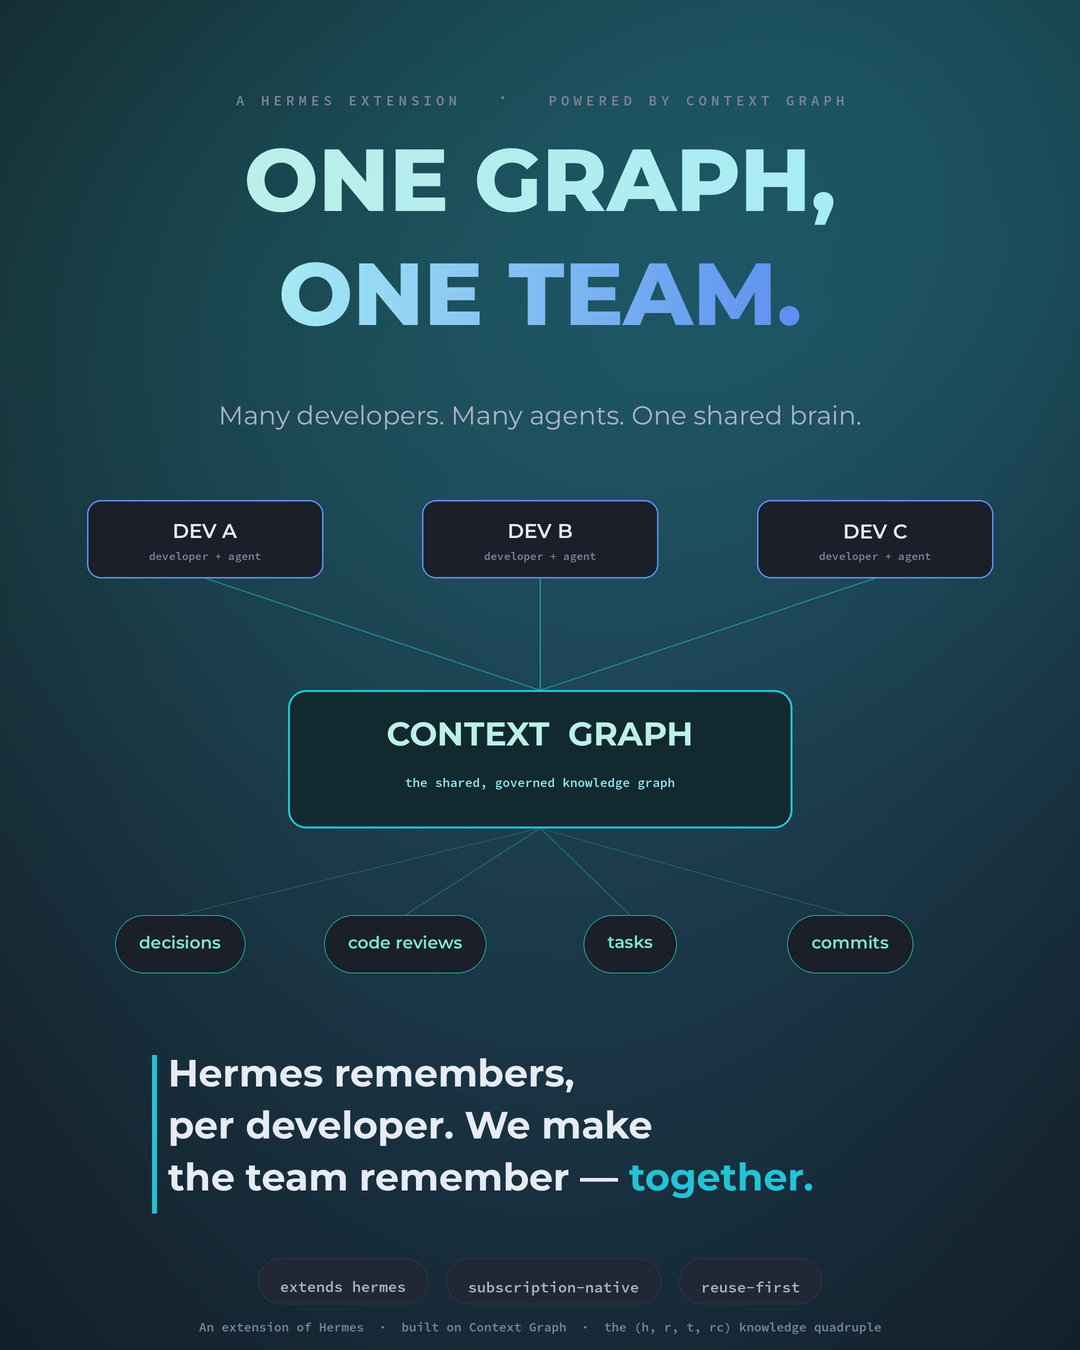
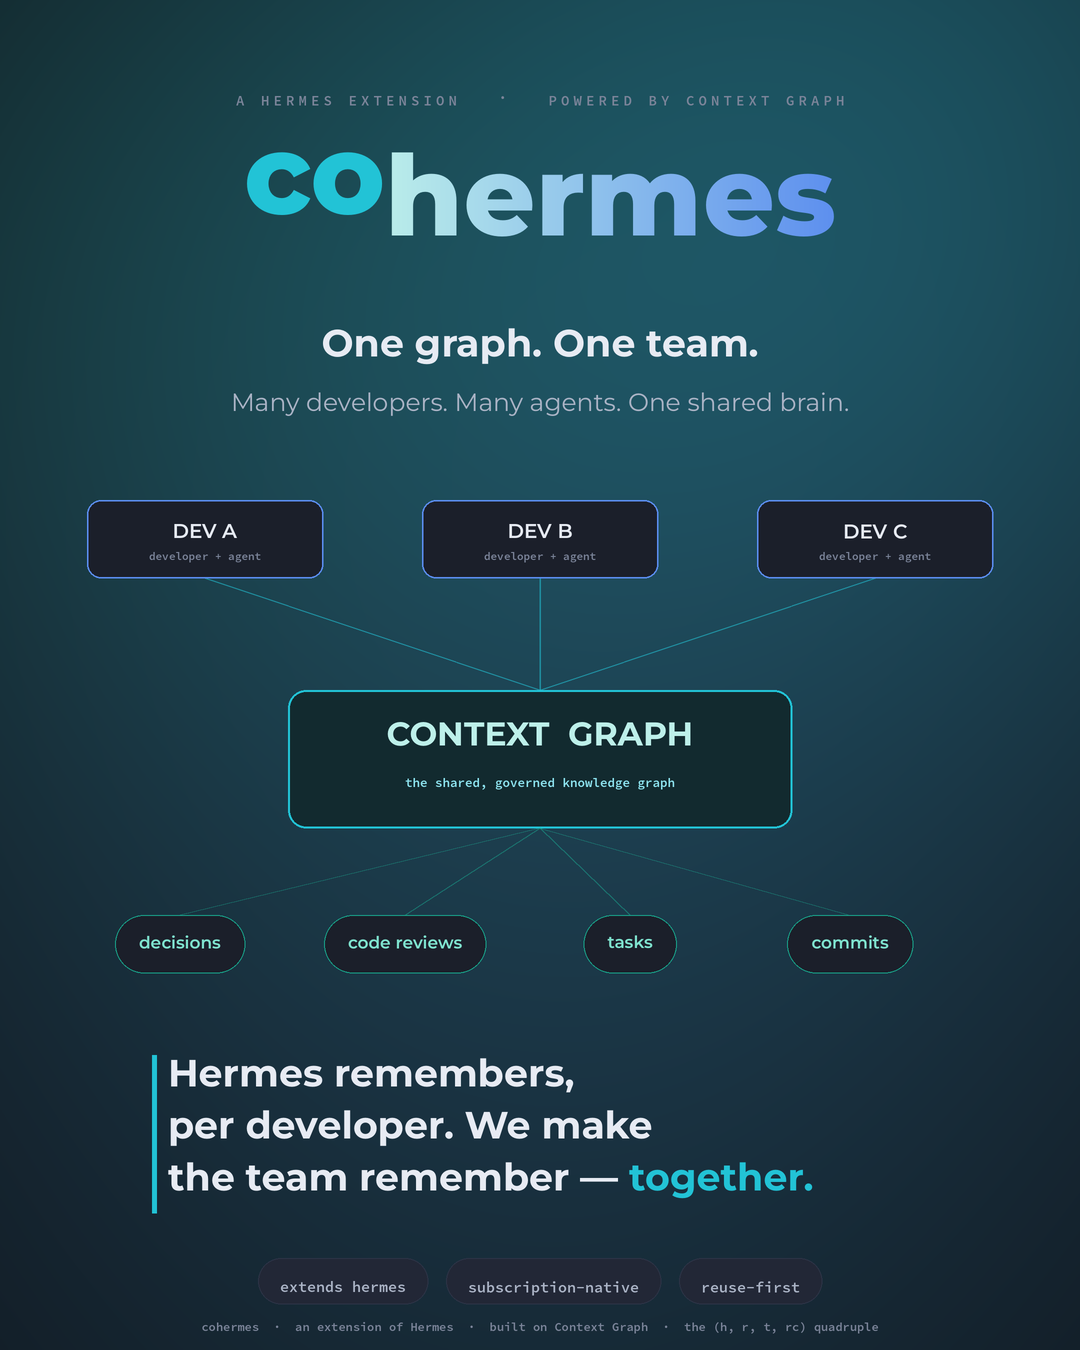
docs(agentic): rebrand poster with the cohermes wordmark
Two-tone cohermes wordmark (co=teal, hermes=cyan->blue) as the hero; 'One graph.
One team.' demoted to tagline; name threaded into the footer.

diff --git a/docs/assets/team_agent_poster.py b/docs/assets/team_agent_poster.py
@@ -101,18 +101,36 @@ def grad_text(cx, top_y, text, font, c1, c2):
         ga[:, :, i] = (c1[i] + (c2[i] - c1[i]) * tvec).astype(np.uint8)
     img.paste(Image.fromarray(ga, "RGB"), (int(cx * S - w / 2 - pad), int(top_y * S - pad)), mask)
 
+def grad_text_left(left_x, top_y, text, font, c1, c2):
+    w, h, b = measure(text, font)
+    pad = 12 * S
+    mask = Image.new("L", (w + 2 * pad, h + 2 * pad), 0)
+    ImageDraw.Draw(mask).text((pad - b[0], pad - b[1]), text, font=font, fill=255)
+    ga = np.zeros((h + 2 * pad, w + 2 * pad, 3), dtype=np.uint8)
+    tvec = np.linspace(0, 1, w + 2 * pad)
+    for i in range(3):
+        ga[:, :, i] = (c1[i] + (c2[i] - c1[i]) * tvec).astype(np.uint8)
+    img.paste(Image.fromarray(ga, "RGB"), (int(left_x * S - pad), int(top_y * S - pad)), mask)
+
 
 CX = 540
 
 # eyebrow
 spaced(CX, 96, "A HERMES EXTENSION   ·   POWERED BY CONTEXT GRAPH", mono(14), INK_FAINT, 4)
 
-# title
-grad_text(CX, 148, "ONE GRAPH,", mont("xbold", 88), CYAN_HI, CYAN_HI2)
-grad_text(CX, 262, "ONE TEAM.", mont("xbold", 88), CYAN_HI2, BLUE)
+# wordmark — cohermes ("co" teal, "hermes" cyan→blue gradient)
+wf = mont("xbold", 112)
+w_co = measure("co", wf)[0] / S
+w_he = measure("hermes", wf)[0] / S
+x0 = CX - (w_co + w_he) / 2
+ltext(x0, 152, "co", wf, TEAL)
+grad_text_left(x0 + w_co, 152, "hermes", wf, CYAN_HI, BLUE)
+
+# tagline
+ctext(CX, 328, "One graph. One team.", mont("bold", 38), INK)
 
 # subtitle
-ctext(CX, 405, "Many developers. Many agents. One shared brain.", mont("reg", 26), INK_SOFT)
+ctext(CX, 392, "Many developers. Many agents. One shared brain.", mont("reg", 25), INK_SOFT)
 
 # ---- visual: agents -> hub -> artifacts ----
 chip_y0, chip_y1 = 500, 578
@@ -162,8 +180,8 @@ for p, w in zip(pills, ws):
     x += w + gap
 
 # ---- footer ----
-ctext(CX, 1322, "An extension of Hermes  ·  built on Context Graph  ·  the (h, r, t, rc) knowledge quadruple",
-      mono(12.5), INK_FAINT)
+ctext(CX, 1322, "cohermes  ·  an extension of Hermes  ·  built on Context Graph  ·  the (h, r, t, rc) quadruple",
+      mono(12), INK_FAINT)
 
 final = img.resize((1080, 1350), Image.LANCZOS)
 os.makedirs(os.path.dirname(OUT), exist_ok=True)
